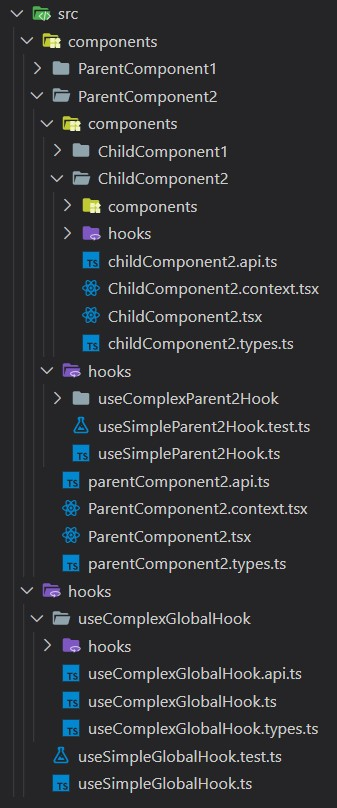
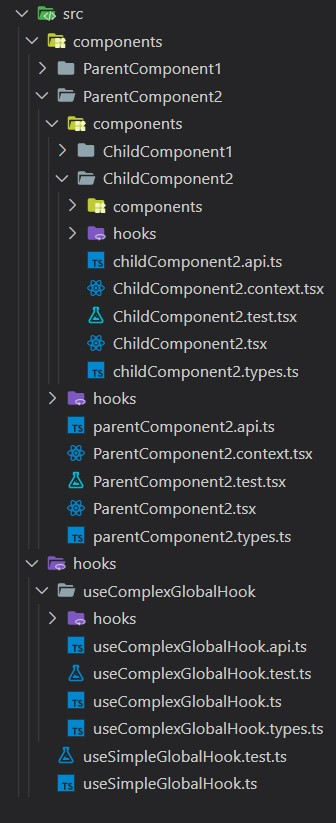
Update README.md

diff --git a/README.md b/README.md
@@ -147,15 +147,11 @@ Create a **`projectStructure.json`** or **`projectStructure.yaml`** in the root 
                     "ruleId": "hooks_folder"
                 },
                 {
-                    "name": "/^${{ParentName}}\\.(context|test)$/",
-                    "extension": [".tsx", "ts"]
-                },
-                {
                     "name": "/^${{parentName}}${{yourCustomRegexParameter}}$/",
                     "extension": ".ts"
                 },
                 {
-                    "name": "/^${{ParentName}}$/",
+                    "name": "/^${{ParentName}}(\\.(context|test))?$/",
                     "extension": ".tsx"
                 }
             ]
@@ -197,13 +193,9 @@ rules:
         children:
             - ruleId: components_folder
             - ruleId: hooks_folder
-            - name: "/^${{ParentName}}\\.(context|test)$/"
-              extension:
-                  - ".tsx"
-                  - ts
             - name: "/^${{parentName}}${{yourCustomRegexParameter}}$/"
               extension: ".ts"
-            - name: "/^${{ParentName}}$/"
+            - name: "/^${{ParentName}}(\\.(context|test))?$/"
               extension: ".tsx"
 regexParameters:
     yourCustomRegexParameter: "\\.(types|api)"
